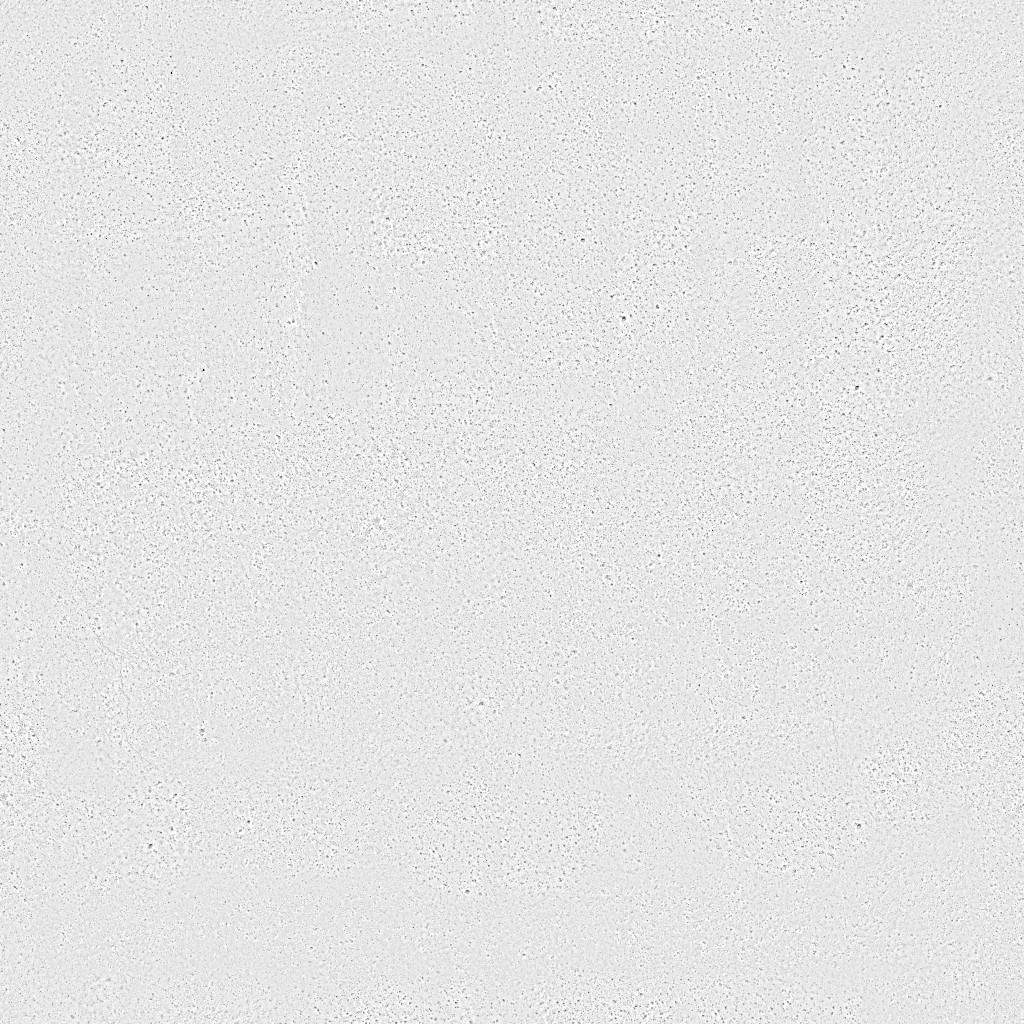
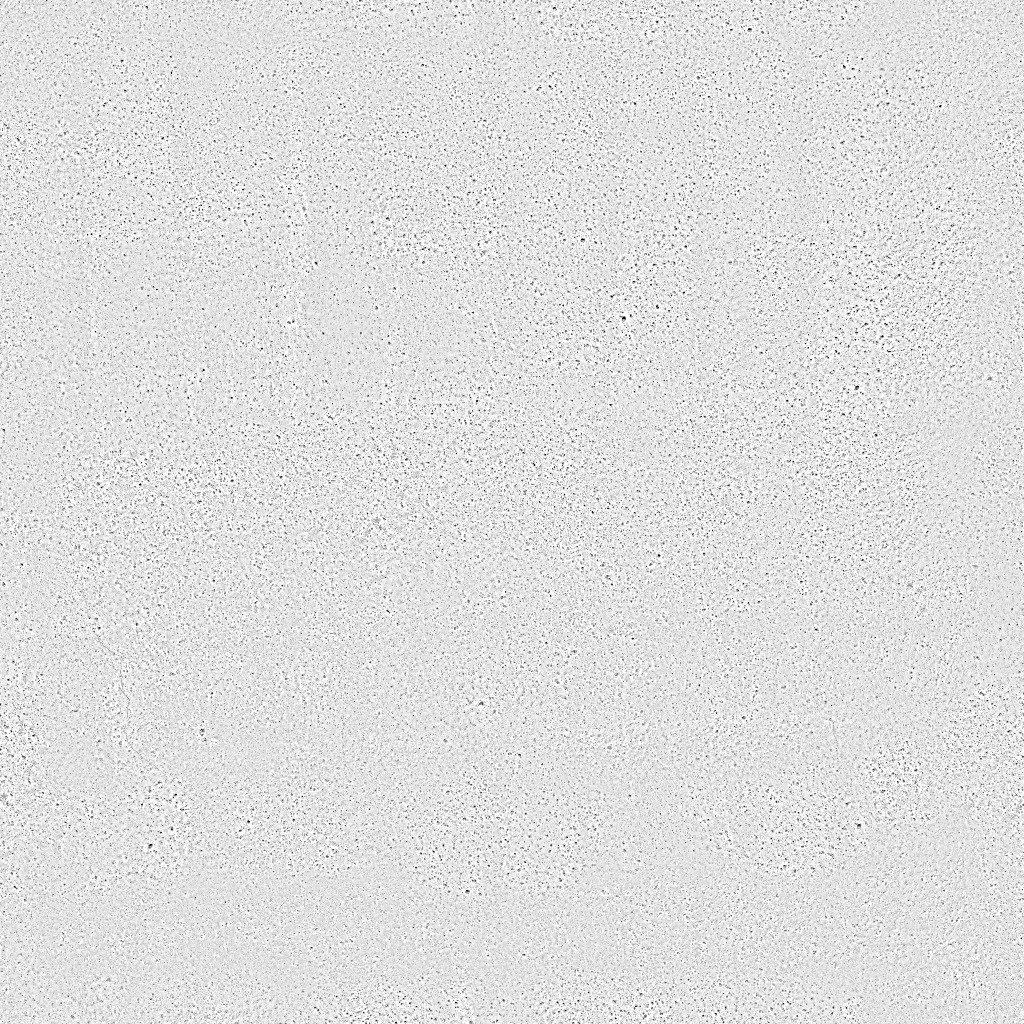
Partes lisas dos prédios com madeira pintada e metal reais
- Placas, portas, molduras de janela, balcão, rodapés e mesinha do caixa em
  madeira pintada (fine_grained_wood, CC0); ouro dos Troféus, sino, tela do
  Fliperama, panelas, fogões e forno em metal (metal_plate, CC0).
- Torre do sino em reboco amarelo; morros de sorvete com glacê.
- Reflexo do céu nos metais (modo Mobile); cozinha com céu lilás.
- Texturas reais com mais contraste de detalhe.

Claude-Session: https://claude.ai/code/session_01VihRQC9mCPmgLSwEXYntza

diff --git a/ferramentas/preparar_texturas_reais.py b/ferramentas/preparar_texturas_reais.py
@@ -13,12 +13,14 @@ AJUSTES = {
     "grama": ("cor", 0.50, 0.14),
     "areia": ("cinza", 0.86, 0.08),
     "calcamento": ("cinza", 0.80, 0.12),
-    "reboco_barro": ("cinza", 0.82, 0.09),
-    "reboco": ("cinza", 0.90, 0.06),
+    "reboco_barro": ("cinza", 0.80, 0.12),
+    "reboco": ("cinza", 0.88, 0.10),
     "tijolos": ("cinza", 0.80, 0.12),
     "ardosia": ("cinza", 0.78, 0.13),
     "madeira": ("cor", 0.62, 0.10),
     "piso_cozinha": ("cinza", 0.90, 0.06),
+    "metal": ("cinza", 0.85, 0.10),
+    "madeira_pintada": ("cinza", 0.84, 0.14),
 }
 
 origem = sys.argv[1]

diff --git a/godot/assets/texturas/reais/LEIA-ME.md b/godot/assets/texturas/reais/LEIA-ME.md
@@ -16,6 +16,8 @@ G = aspereza, B = metal).
 | ardosia | roof_slates_02 | Poly Haven — https://polyhaven.com/a/roof_slates_02 |
 | madeira | kitchen_wood | Poly Haven — https://polyhaven.com/a/kitchen_wood |
 | piso_cozinha | marble_tiles | Poly Haven — https://polyhaven.com/a/marble_tiles |
+| metal | metal_plate | Poly Haven — https://polyhaven.com/a/metal_plate |
+| madeira_pintada | fine_grained_wood | Poly Haven — https://polyhaven.com/a/fine_grained_wood |
 
 As fotos de cor foram clareadas e, quase todas, passadas para tons de cinza
 (`ferramentas/preparar_texturas_reais.py`), para a cor do jogo pintar por cima
